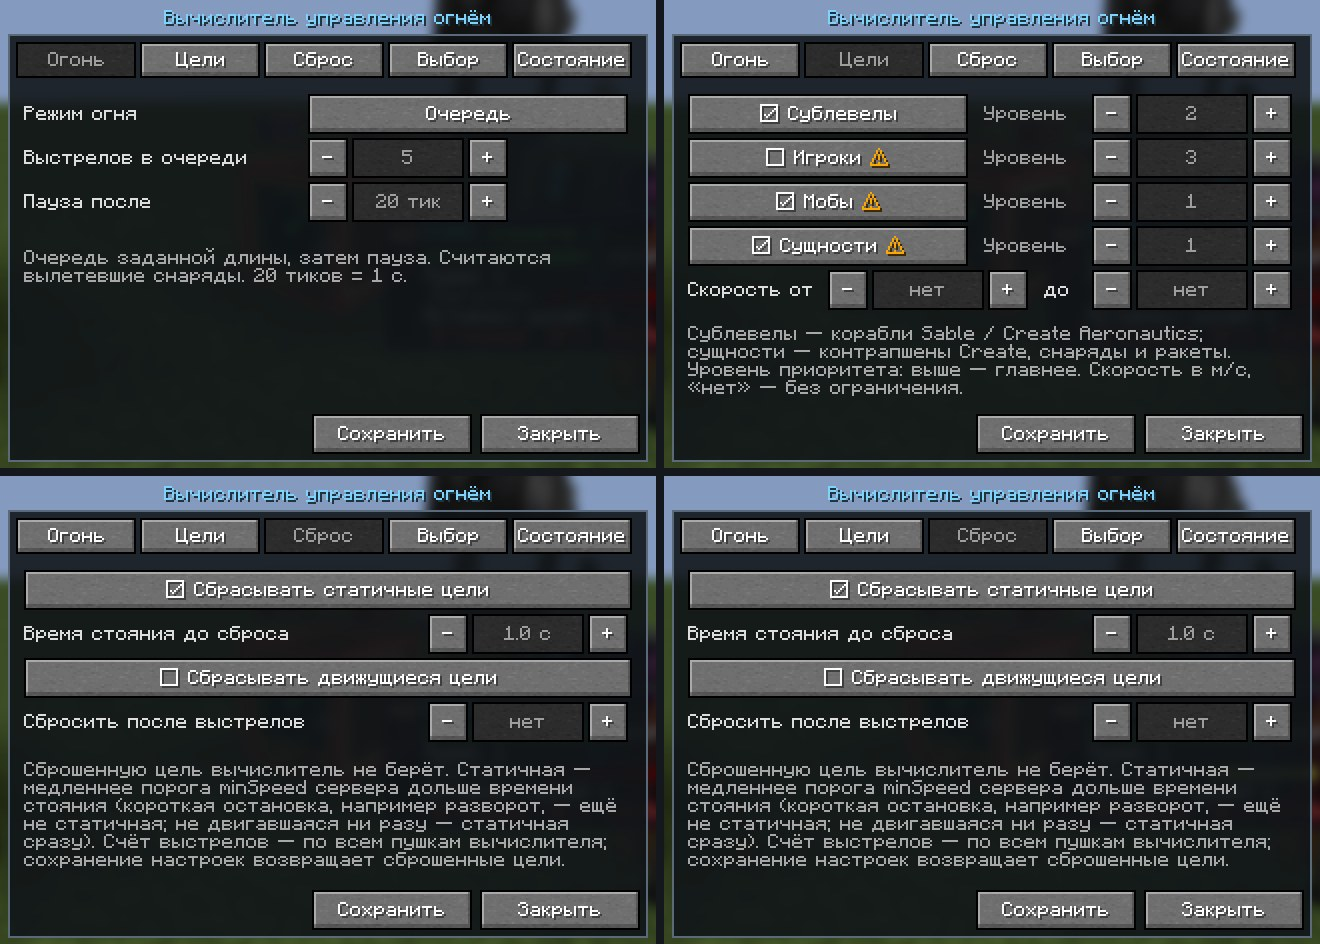
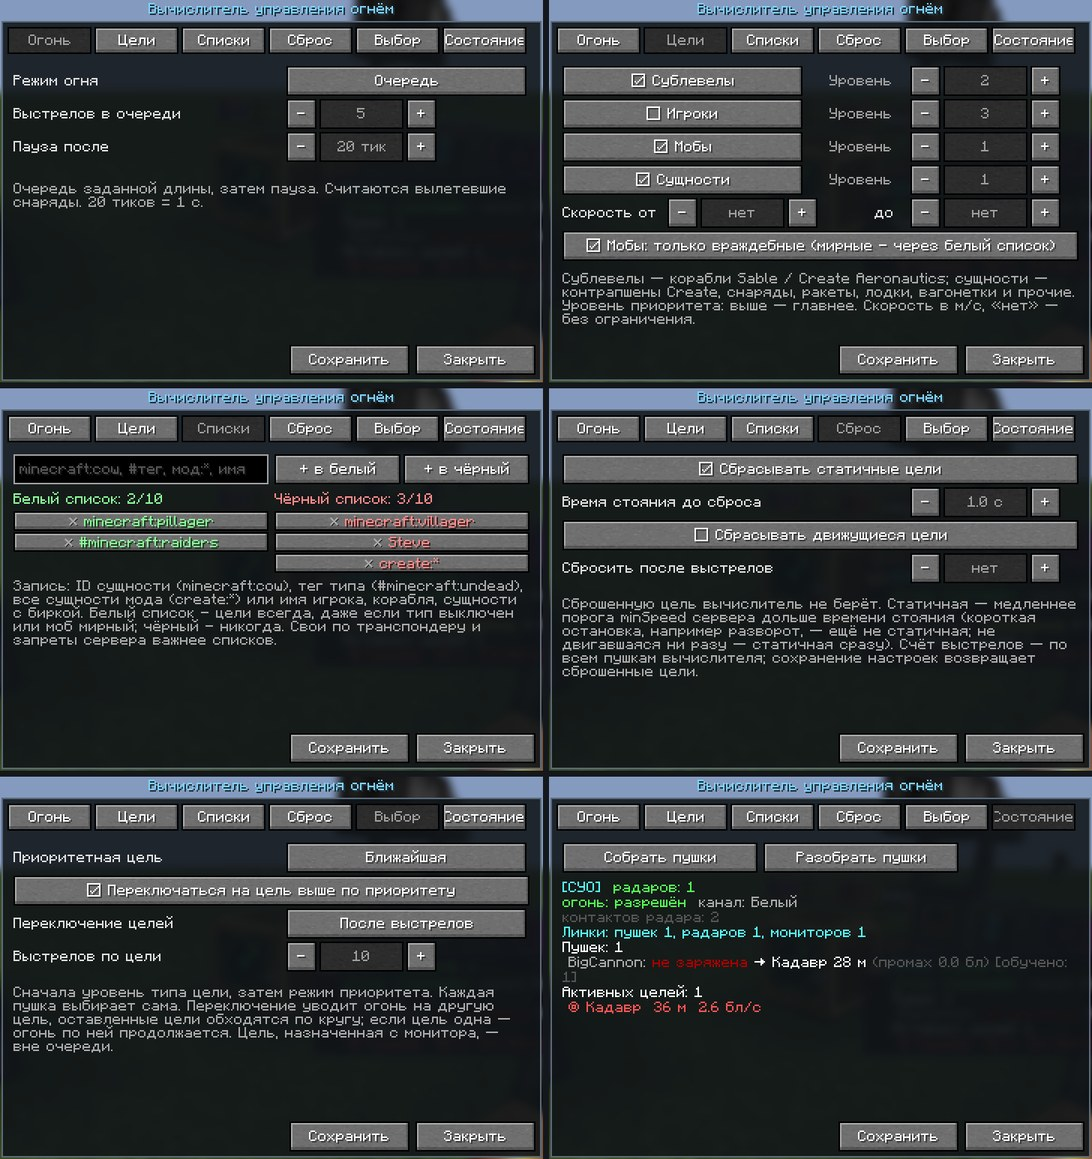
Monitor info box without depth flicker, docs screenshots for 0.8
- Draw the target info backdrop as a quad under the text: the font's own
  background lay in the text plane and hid parts of the line at a distance
- Monitor window filters no longer overlap the Close button
- Height in the target info is rounded without a negative zero
- Screenshot scene uses its own link network per run and a durable target
- New screenshots: all settings tabs, target lists, monitor window, monitor
  hover info, radar link network

Claude-Session: https://claude.ai/code/session_012zqq5XfWdxmAYd59PkaZmo

diff --git a/radar_fcs/src/main/java/dev/radarfcs/client/RadarMonitorRenderer.java b/radar_fcs/src/main/java/dev/radarfcs/client/RadarMonitorRenderer.java
@@ -141,8 +141,23 @@ public class RadarMonitorRenderer implements BlockEntityRenderer<RadarMonitorBlo
         int dye = be.channel().getTextureDiffuseColor();
         rect(vc, m, w - 0.5f - e - 0.12f, -0.5f + e + 0.02f, w - 0.5f - e - 0.02f, -0.5f + e + 0.05f, 0.002f, 0xFF000000 | (dye & 0xFFFFFF));
 
-        // подписи - последними: текст берёт из буферов свой тип рендера, и буфер квадов после него недействителен
+        // сведения о цели под взглядом (или назначенной): подложка - квадом здесь, текст - ниже. Свой фон текста шрифта
+        // лежит почти в одной плоскости с буквами и на расстоянии перекрывает их (мерцание по глубине)
         float scale = 0.0075f * (float) Math.sqrt(Math.min(w, h));
+        float boxW = (w - 2 * e * 1.6f) / scale;
+        Blip info = hovered;
+        if (info == null) for (Blip b : blips) if ((b.flags() & RadarMonitorBlockEntity.FLAG_DESIGNATED) != 0) info = b;
+        List<Component> lines = info == null ? List.of() : RadarMonitorScreen.describe(be, info);
+        int widest = 1;
+        for (Component c : lines) widest = Math.max(widest, font.width(c));
+        float k = Math.min(1f, boxW / widest);
+        if (!lines.isEmpty()) {
+            float ox = -0.5f + e * 1.6f, oy = h - 0.5f - e * 1.6f;
+            float y0 = font.lineHeight + 2 - k, y1 = font.lineHeight + 2 + k * (lines.size() * (font.lineHeight + 1));
+            rect(vc, m, ox - k * scale, oy - y1 * scale, ox + (widest + 1) * k * scale, oy - y0 * scale, 0.0028f, 0xC0000000);
+        }
+
+        // подписи - последними: текст берёт из буферов свой тип рендера, и буфер квадов после него недействителен
         ps.pushPose();
         ps.translate(-0.5f + e * 1.6f, h - 0.5f - e * 1.6f, 0.003f);
         ps.scale(scale, -scale, scale);
@@ -150,25 +165,18 @@ public class RadarMonitorRenderer implements BlockEntityRenderer<RadarMonitorBlo
         font.drawInBatch(Component.translatable("radar_fcs.monitor.range", Math.round(range)).getString(), 0, 0, TEXT, false, tm,
                 buffers, Font.DisplayMode.POLYGON_OFFSET, 0, LightTexture.FULL_BRIGHT);
         String right1 = Component.translatable("radar_fcs.monitor.targets", count).getString();
-        float boxW = (w - 2 * e * 1.6f) / scale;
         font.drawInBatch(right1, boxW - font.width(right1), 0, TEXT, false, tm, buffers, Font.DisplayMode.POLYGON_OFFSET, 0,
                 LightTexture.FULL_BRIGHT);
         float boxH = (h - 2 * e * 1.6f) / scale;
-        Blip info = hovered;
-        if (info == null) for (Blip b : blips) if ((b.flags() & RadarMonitorBlockEntity.FLAG_DESIGNATED) != 0) info = b;
-        if (info != null) {
+        if (!lines.isEmpty()) {
             // сведения о цели под строкой дальности; на маленьком экране - мельче, чтобы влезли
-            List<Component> lines = RadarMonitorScreen.describe(be, info);
-            int widest = 1;
-            for (Component c : lines) widest = Math.max(widest, font.width(c));
-            float k = Math.min(1f, boxW / widest);
             ps.pushPose();
             ps.translate(0, font.lineHeight + 2, 0);
             ps.scale(k, k, 1);
             Matrix4f im = ps.last().pose();
             float ty = 0;
             for (Component c : lines) {
-                font.drawInBatch(c, 0, ty, 0xFFFFFFFF, false, im, buffers, Font.DisplayMode.POLYGON_OFFSET, 0x90000000,
+                font.drawInBatch(c, 0, ty, 0xFFFFFFFF, false, im, buffers, Font.DisplayMode.POLYGON_OFFSET, 0,
                         LightTexture.FULL_BRIGHT);
                 ty += font.lineHeight + 1;
             }

diff --git a/radar_fcs/src/gametest/java/dev/radarfcs/gametest/DevScreenshots.java b/radar_fcs/src/gametest/java/dev/radarfcs/gametest/DevScreenshots.java
@@ -82,8 +82,15 @@ public final class DevScreenshots {
         });
         if (tick == 330) shot(mc, "fcs_transponders");
         // монитор на линках с радаром Create Radars и вычислителем
-        if (tick == 332) server.execute(() -> look(server, new Vec3(base.getX() - 3.5, base.getY() + 1.0, base.getZ() - 1.5),
-                new Vec3(base.getX() - 7.5, base.getY() + 1.4, base.getZ() - 1.5)));
+        // взгляд на отметку цели - сведения о ней на экране
+        if (tick == 332) server.execute(() -> {
+            Vec3 pt = new Vec3(base.getX() - 3.5, base.getY() + 1.0, base.getZ() - 1.5);
+            if (husk != null && husk.isAlive()
+                    && server.overworld().getBlockEntity(base.offset(-3, 0, -3)) instanceof dev.radarfcs.block.RadarMonitorBlockEntity mon) {
+                pt = mon.master().screenPointFor(husk.getBoundingBox().getCenter());
+            }
+            look(server, pt, new Vec3(base.getX() - 7.5, base.getY() + 1.4, base.getZ() - 1.5));
+        });
         if (tick == 338) shot(mc, "radar_monitor");
         // контроллеры наводки у станка: общий вид и очки инженера
         if (tick == 340) server.execute(() -> look(server, new Vec3(base.getX() + 4.5, base.getY() - 0.2, base.getZ() + 0.9),
@@ -144,8 +151,8 @@ public final class DevScreenshots {
         p.teleportTo(server.overworld(), eye.x, eye.y - 1.62, eye.z, yaw, pitch);
     }
 
-    /** Все линки сцены - в одной радарной сети. */
-    private static final java.util.UUID SCENE_NET = java.util.UUID.nameUUIDFromBytes("radar_fcs:screenshots".getBytes());
+    /** Все линки сцены - в одной радарной сети, своей у каждого запуска (сцены прошлых запусков стоят в том же мире). */
+    private static final java.util.UUID SCENE_NET = java.util.UUID.randomUUID();
 
     private static void placeLink(ServerLevel level, BlockPos attached, Direction face, BlockPos other) {
         BlockPos at = attached.relative(face);
@@ -227,10 +234,14 @@ public final class DevScreenshots {
         if (husk != null) {
             husk.setNoAi(true);
             husk.setPersistenceRequired();
+            var hp = husk.getAttribute(net.minecraft.world.entity.ai.attributes.Attributes.MAX_HEALTH);
+            if (hp != null) hp.setBaseValue(1000);                         // живёт до конца съёмки
+            husk.setHealth(husk.getMaxHealth());
             husk.setPos(base.getX() + 36.5, y, base.getZ() - 6);
             level.addFreshEntity(husk);
         }
         player.setItemSlot(EquipmentSlot.HEAD, new ItemStack(BuiltInRegistries.ITEM.get(ResourceLocation.parse("create:goggles"))));
+        player.setItemInHand(net.minecraft.world.InteractionHand.MAIN_HAND, ItemStack.EMPTY);     // линк из прошлой съёмки
         player.teleportTo(level, base.getX() - 6.5, y + 3, base.getZ() + 7.5, -120f, 15f);
         FcsMod.LOG.info("[radar_fcs dev] scene built at {}", base);
     }

diff --git a/radar_fcs/src/main/java/dev/radarfcs/client/RadarMonitorScreen.java b/radar_fcs/src/main/java/dev/radarfcs/client/RadarMonitorScreen.java
@@ -23,7 +23,7 @@ import org.jetbrains.annotations.Nullable;
  * (ручное наведение вычислителей сети), снятие назначения, масштаб и фильтры показа.
  */
 public final class RadarMonitorScreen extends Screen {
-    private static final int W = 380, H = 232, ROW = 12, LIST_X = 8, LIST_W = 232, LIST_TOP = 30;
+    private static final int W = 380, H = 240, ROW = 12, LIST_X = 8, LIST_W = 232, LIST_TOP = 30;
     private static final int ROWS = (H - LIST_TOP - 34) / ROW;
 
     private final BlockPos pos;
@@ -61,8 +61,8 @@ public final class RadarMonitorScreen extends Screen {
             showButtons.add(addRenderableWidget(Button.builder(showText(m, s), b -> {
                 RadarMonitorBlockEntity mm = monitor();
                 if (mm != null) send(MonitorCommandPayload.SHOW, mm.show() ^ s.bit, "");
-            }).bounds(x, y, w, 15).build()));
-            y += 16;
+            }).bounds(x, y, w, 14).build()));
+            y += 15;
         }
         addRenderableWidget(Button.builder(Component.translatable("radar_fcs.gui.close"), b -> onClose())
                 .bounds(left + W - 84, top + H - 24, 80, 20).build());
@@ -162,7 +162,7 @@ public final class RadarMonitorScreen extends Screen {
         Component l2 = Component.translatable("radar_fcs.monitor_gui.coords",
                 String.format(Locale.ROOT, "%.0f", c.x + b.dx()), String.format(Locale.ROOT, "%.0f", c.y + b.dy()),
                 String.format(Locale.ROOT, "%.0f", c.z + b.dz()), String.format(Locale.ROOT, "%.0f", Math.hypot(b.dx(), b.dz())),
-                String.format(Locale.ROOT, "%+.0f", b.dy()), String.format(Locale.ROOT, "%.1f", b.speed())).withStyle(ChatFormatting.WHITE);
+                String.format(Locale.ROOT, "%+d", Math.round(b.dy())), String.format(Locale.ROOT, "%.1f", b.speed())).withStyle(ChatFormatting.WHITE);
         return List.of(l1, l2);
     }
 
